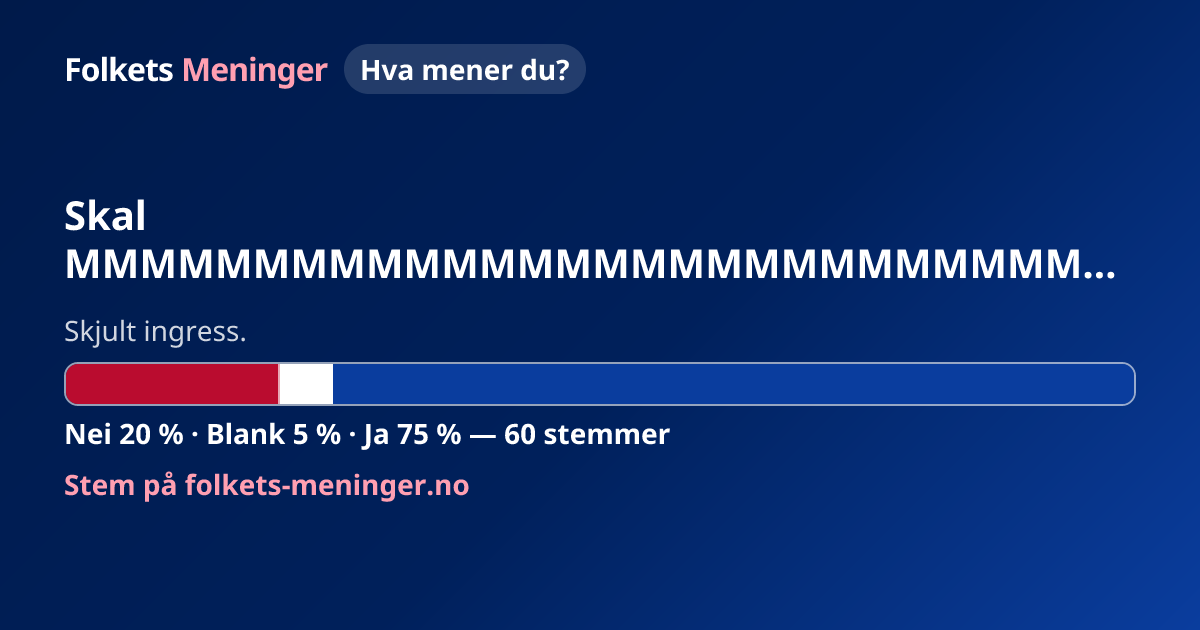
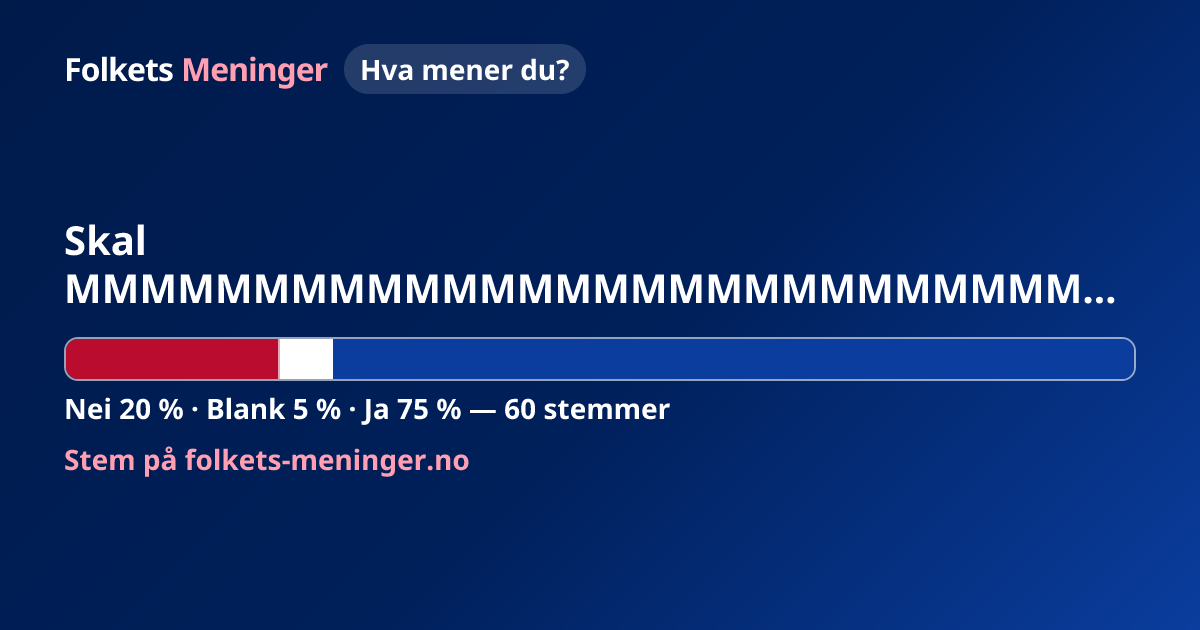
fix(og): ingress ved én linje og glyfmålt ellipsis uten ordgrense
Oppfølging #262: vis neutralSummary bare når den fittede tittelen har
lineCount === 1; hardkutt spaceless titler (f.eks. 130×W) med binærsøk
på Noto-bredde slik «…» får plass. Tester og nye/oppdaterte docs/og-samples.

Changed region(s): [[0.0308, 0.5127, 0.9558, 0.8143], [0.0308, 0.3016, 0.925, 0.4825]]

diff --git a/lib/polls/share-og-title.test.ts b/lib/polls/share-og-title.test.ts
@@ -3,6 +3,15 @@ import React from 'react';
 import { test } from 'node:test';
 import type { PollRecord } from '@/lib/polls/types';
 import {
+  isNotDefGlyph,
+  layoutPollOgTitleLines,
+  loadPollOgTitleMeasurer,
+  loadPollOgTitleMeasurerFonts,
+  maxPollOgTitleLineWidth,
+  POLL_OG_TITLE_MAX_WIDTH,
+  resetPollOgTitleMeasurerCacheForTests,
+} from '@/lib/polls/share-og-title-measure';
+import {
   OG_IMAGE_SIZE,
   POLL_OG_TITLE_RAW_MAX,
   POLL_OG_TITLE_TO_BAR_EXTRA_GAP_PX,
@@ -11,13 +20,8 @@ import {
   renderPollShareOgImage,
   resolvePollOgTitleDisplay,
   resolvePollOgTitleDisplayWithMeasurer,
+  shouldShowPollOgNeutralSummary,
 } from '@/lib/polls/share-og';
-import {
-  isNotDefGlyph,
-  loadPollOgTitleMeasurer,
-  loadPollOgTitleMeasurerFonts,
-  resetPollOgTitleMeasurerCacheForTests,
-} from '@/lib/polls/share-og-title-measure';
 
 (globalThis as typeof globalThis & { React: typeof React }).React = React;
 
@@ -60,12 +64,18 @@ function assertMeasuredTwoLineTitle(
     measurer.fitsTwoLines(layout.title, layout.fontSize),
     `title must fit on 2 lines at ${layout.fontSize}px: ${JSON.stringify(layout.title)} (lines=${measurer.lineCount(layout.title, layout.fontSize)})`,
   );
-  assert.ok(
-    pollOgTitleEndsWithWordBoundaryEllipsis(layout.title),
-    `title ellipsis must be on word boundary: ${JSON.stringify(layout.title)}`,
-  );
+  if (/\s/.test(layout.title)) {
+    assert.ok(
+      pollOgTitleEndsWithWordBoundaryEllipsis(layout.title),
+      `title ellipsis must be on word boundary: ${JSON.stringify(layout.title)}`,
+    );
+  }
   if (layout.title.endsWith('…')) {
     assert.match(layout.title, /\S…$/);
+    assert.ok(
+      maxPollOgTitleLineWidth(layout.title, layout.fontSize, measurer) <= POLL_OG_TITLE_MAX_WIDTH + 0.5,
+      `line width must stay within ${POLL_OG_TITLE_MAX_WIDTH}px`,
+    );
   }
   assert.ok(!measurer.hasNotDefGlyph(layout.title));
 }
@@ -122,6 +132,36 @@ test('84-, 90-, caps, max-length, æøå and long-word titles resolve on word bo
 
   const maxRaw = resolvePollOgTitleDisplayWithMeasurer(TITLE_MAX_RAW, measurer);
   assert.ok(maxRaw.title.endsWith('…'));
+  assert.equal(measurer.lineCount(maxRaw.title, maxRaw.fontSize), 2);
+  assert.ok(
+    maxPollOgTitleLineWidth(maxRaw.title, maxRaw.fontSize, measurer) <= POLL_OG_TITLE_MAX_WIDTH,
+  );
+  const maxLines = layoutPollOgTitleLines(maxRaw.title, maxRaw.fontSize, measurer);
+  assert.ok(maxLines.at(-1)?.endsWith('…'));
+});
+
+test('130 W title uses width-measured hard cut with visible ellipsis', async () => {
+  const measurer = await withMeasurer();
+  const layout = resolvePollOgTitleDisplayWithMeasurer(TITLE_MAX_RAW, measurer);
+  assert.ok(layout.title.endsWith('…'));
+  assert.ok(
+    maxPollOgTitleLineWidth(layout.title, layout.fontSize, measurer) <= POLL_OG_TITLE_MAX_WIDTH,
+  );
+});
+
+test('neutral summary only when fitted title is a single measured line', async () => {
+  const measurer = await withMeasurer();
+  const oneLine = resolvePollOgTitleDisplayWithMeasurer('Kortere arbeidsuke?', measurer);
+  assert.equal(measurer.lineCount(oneLine.title, oneLine.fontSize), 1);
+  assert.ok(
+    shouldShowPollOgNeutralSummary(oneLine.title, oneLine.fontSize, measurer, 'Eksempel ingress.'),
+  );
+
+  const twoLine = resolvePollOgTitleDisplayWithMeasurer(TITLE_90_CHARS, measurer);
+  assert.equal(measurer.lineCount(twoLine.title, twoLine.fontSize), 2);
+  assert.ok(
+    !shouldShowPollOgNeutralSummary(twoLine.title, twoLine.fontSize, measurer, 'Skjult ingress.'),
+  );
 });
 
 test('clampPollOgText adds ellipsis on hard cut (no spaces)', () => {

diff --git a/lib/polls/share-og.tsx b/lib/polls/share-og.tsx
@@ -31,8 +31,6 @@ const OG_TITLE_MAX_PX = 52;
 const BAR_OUTLINE = '2px solid rgba(255,255,255,0.55)';
 const BAR_SEGMENT_GAP = '2px solid rgba(255,255,255,0.65)';
 const TITLE_MAX_LINES = 2;
-/** Summary only when the title fits on a single line at max size. */
-const SUMMARY_TITLE_MAX_CHARS = 46;
 /** Extra space between the title block and ingress / result bar (added to flex gap). */
 export const POLL_OG_TITLE_TO_BAR_EXTRA_GAP_PX = 12;
 /** Hard limit on raw poll title length before sizing bands. */
@@ -76,12 +74,40 @@ export function pickPollOgTitleFontSize(raw: string, measurer: PollOgTitleMeasur
   return 40;
 }
 
+const POLL_OG_ELLIPSIS = '…';
+
+function truncatePollOgTitleNoSpaces(
+  text: string,
+  fontSize: number,
+  measurer: PollOgTitleMeasurer,
+): string {
+  if (measurer.fitsTwoLines(text, fontSize)) return text;
+
+  let lo = 0;
+  let hi = text.length;
+  let best = POLL_OG_ELLIPSIS;
+  while (lo <= hi) {
+    const mid = Math.floor((lo + hi) / 2);
+    const candidate = `${text.slice(0, mid)}${POLL_OG_ELLIPSIS}`;
+    if (measurer.fitsTwoLines(candidate, fontSize)) {
+      best = candidate;
+      lo = mid + 1;
+    } else {
+      hi = mid - 1;
+    }
+  }
+  return best;
+}
+
 export function truncatePollOgTitleToTwoLines(
   text: string,
   fontSize: number,
   measurer: PollOgTitleMeasurer,
 ): string {
   if (measurer.fitsTwoLines(text, fontSize)) return text;
+  if (!/\s/.test(text)) {
+    return truncatePollOgTitleNoSpaces(text, fontSize, measurer);
+  }
   for (let max = text.length; max >= 15; max -= 1) {
     const candidate = clampPollOgText(text, max);
     if (measurer.fitsTwoLines(candidate, fontSize)) return candidate;
@@ -103,6 +129,15 @@ export function resolvePollOgTitleDisplayWithMeasurer(
   const fontSize = pickPollOgTitleFontSize(raw, measurer);
   const title = truncatePollOgTitleToTwoLines(raw, fontSize, measurer);
   return { fontSize, title, charCap: title.length };
+}
+
+export function shouldShowPollOgNeutralSummary(
+  title: string,
+  titleFontSize: number,
+  measurer: PollOgTitleMeasurer,
+  neutralSummary: string | null | undefined,
+): boolean {
+  return measurer.lineCount(title, titleFontSize) === 1 && Boolean(neutralSummary?.trim());
 }
 
 /** Measure with Noto Sans 700 and clamp on word boundaries before Satori line-clamp. */
@@ -218,7 +253,13 @@ export async function renderPollShareOgImage(
 ): Promise<ImageResponse> {
   const fonts = await loadOgFonts();
   const { fontSize: titleSize, title } = await resolvePollOgTitleDisplay(poll.title);
-  const showSummary = title.length <= SUMMARY_TITLE_MAX_CHARS && Boolean(poll.neutralSummary);
+  const measurer = await loadPollOgTitleMeasurer();
+  const showSummary = shouldShowPollOgNeutralSummary(
+    title,
+    titleSize,
+    measurer,
+    poll.neutralSummary,
+  );
   const summary = showSummary ? clampPollOgText(poll.neutralSummary, 88) : '';
 
   return new ImageResponse(

diff --git a/scripts/render-og-samples.ts b/scripts/render-og-samples.ts
@@ -52,8 +52,10 @@ const longTwoLineTitle =
 const title90Chars =
   'Skal staten innføre nye avgiftsregler for næringsliv og privatpersoner i hele landet snart';
 
-/** 130 tegn — 40px tittel kappet på ordgrense før line-clamp. */
-const titleMaxRawChars = 'W'.repeat(130);
+/** 130 tegn uten mellomrom — glyfmålt hardkutt med synlig «…». */
+const title130Ws = 'W'.repeat(130);
+
+const titleOneLine = 'Kortere arbeidsuke?';
 
 const titleWorstAeoeaa =
   'Bør æøå ÆØÅ innføre nye avgiftsregler for næringsliv og privatpersoner i hele landet snart';
@@ -121,11 +123,36 @@ async function main() {
   await savePng(
     'og-sample-poll-title-max-length.png',
     await renderPollShareOgImage(
-      { ...basePoll, title: titleMaxRawChars, neutralSummary: 'Skjult ingress.' },
+      { ...basePoll, title: title130Ws, neutralSummary: 'Skjult ingress.' },
       { nei: 12, blank: 3, ja: 45, total: 60 },
     ),
   );
-  console.log('max-length resolved title:', await resolvePollOgTitleDisplay(titleMaxRawChars));
+  console.log('130×W resolved title:', await resolvePollOgTitleDisplay(title130Ws));
+
+  await savePng(
+    'og-sample-poll-title-one-line-summary.png',
+    await renderPollShareOgImage(
+      {
+        ...basePoll,
+        title: titleOneLine,
+        neutralSummary:
+          'Et lengre sammendrag som forklarer bakgrunnen for spørsmålet og hvorfor det er aktuelt nå, med æøå og typografi · …',
+      },
+      { nei: 12, blank: 3, ja: 45, total: 60 },
+    ),
+  );
+
+  await savePng(
+    'og-sample-poll-title-two-lines-no-summary.png',
+    await renderPollShareOgImage(
+      {
+        ...basePoll,
+        title: title90Chars,
+        neutralSummary: 'Denne ingressen skal ikke vises når tittelen er to linjer.',
+      },
+      { nei: 12, blank: 3, ja: 45, total: 60 },
+    ),
+  );
 
   await savePng(
     'og-sample-poll-title-worst-aeoeaa.png',

diff --git a/lib/polls/share-og-title-measure.ts b/lib/polls/share-og-title-measure.ts
@@ -114,6 +114,25 @@ function wrapLines(text: string, measureWidth: (value: string) => number): strin
   return lines;
 }
 
+/** Wrapped title lines at fontSize — same rules as lineCount / Satori width. */
+export function layoutPollOgTitleLines(
+  text: string,
+  fontSize: number,
+  measurer: Pick<PollOgTitleMeasurer, 'measureWidth'>,
+): string[] {
+  return wrapLines(text, (value) => measurer.measureWidth(value, fontSize));
+}
+
+export function maxPollOgTitleLineWidth(
+  text: string,
+  fontSize: number,
+  measurer: Pick<PollOgTitleMeasurer, 'measureWidth'>,
+): number {
+  const lines = layoutPollOgTitleLines(text, fontSize, measurer);
+  if (lines.length === 0) return 0;
+  return Math.max(...lines.map((line) => measurer.measureWidth(line, fontSize)));
+}
+
 export function createDualFontPollOgTitleMeasurer(
   latin700: opentype.Font,
   latinExt700: opentype.Font,

diff --git a/docs/og-samples/README.md b/docs/og-samples/README.md
@@ -11,9 +11,11 @@ Generated with `OG_SAMPLE_DIR=docs/og-samples npx tsx scripts/render-og-samples.
 | `og-sample-poll-long-title.png` | Lang tittel (2 linjer), uten ingress |
 | `og-sample-poll-long-title-few-votes.png` | Lang tittel + få stemmer |
 | `og-sample-poll-title-90-chars.png` | 90 tegn @ 40px (Noto-målt, ordgrense) |
-| `og-sample-poll-title-max-length.png` | 130 tegn rå tittel, clamp på ordgrense |
+| `og-sample-poll-title-max-length.png` | 130× «W» uten mellomrom, glyfmålt «…» |
+| `og-sample-poll-title-one-line-summary.png` | Én linje tittel + ingress |
+| `og-sample-poll-title-two-lines-no-summary.png` | To linjer tittel, ingress skjult |
 | `og-sample-poll-title-worst-aeoeaa.png` | Tett æøå/ÆØÅ + lang tittel |
 | `og-sample-poll-title-long-word.png` | Ekstremt langt ord + ordgrense-ellipsis |
-| `og-sample-poll-short-title-summary.png` | Kort tittel + ingress |
+| `og-sample-poll-short-title-summary.png` | Kort tittel + ingress (legacy alias) |
 | `og-sample-blog.png` | Blogg-kort |
 | `og-sample-sak.png` | Stortingssak-kort |
